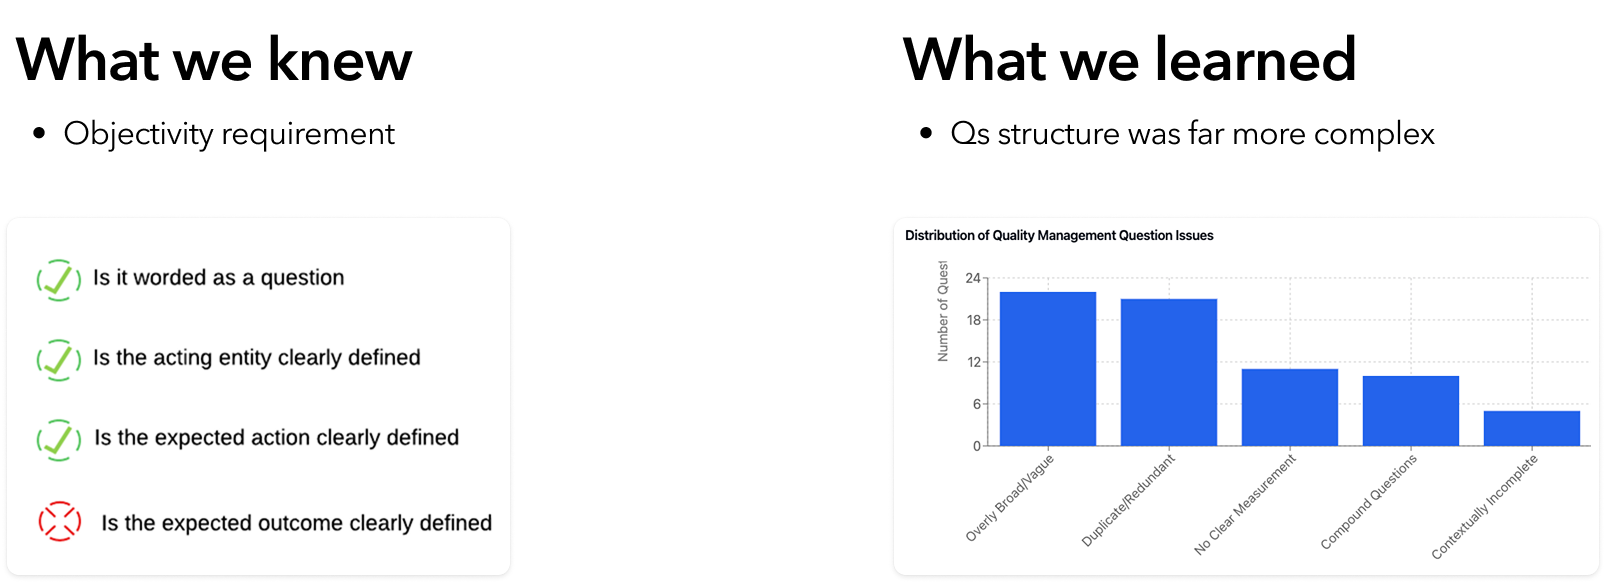
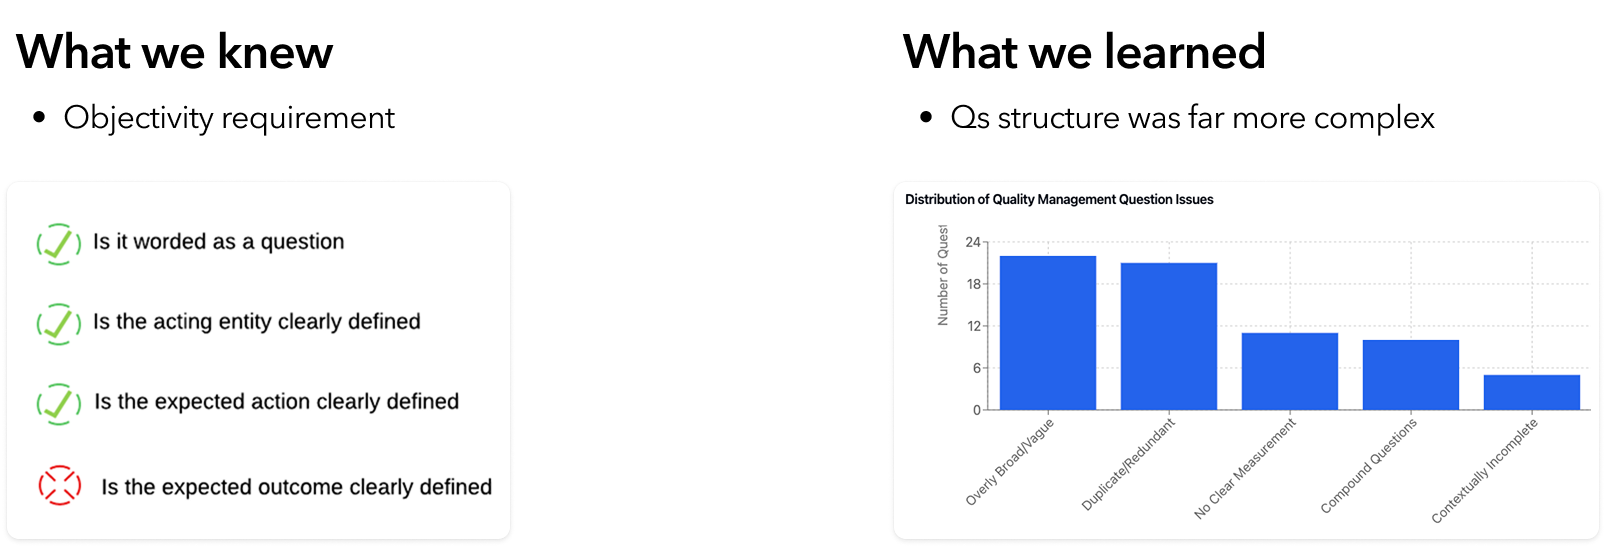
AI insights case study: approach figures, legacy image, copy
- Problem: legacy scorecard UI with caption
- Design approach: approach1 PNG and approach2 GIF with captions; singular table in copy
- Refresh discovery asset dimensions

Made-with: Cursor

diff --git a/projects/ai-scorecards.html b/projects/ai-scorecards.html
@@ -66,6 +66,10 @@
         </figure>
         <p>ACE — RingCentral's post-call analysis tool — lets managers define scorecards to evaluate agent performance. Traditionally, every unscored call flag required manual review. As call volumes scaled, this created an unsustainable bottleneck: slow, prone to bias, and impossible to maintain at pace.</p>
         <p>My goal was to transform scorecard calibration from a manual chore into an automated, high-trust workflow — and in doing so, leapfrog competitors while driving down cost per resolution.</p>
+        <figure class="cs-section-figure">
+          <img src="/assets/AIinsights-legacy.png" alt="Legacy scorecard table and modal components in ACE" width="1173" height="754" decoding="async" />
+          <figcaption>Legacy scorecard table and modal components</figcaption>
+        </figure>
       </div>
 
       <div class="section">
@@ -76,7 +80,7 @@
       <div class="section">
         <h2>Discovery and tradeoffs</h2>
         <figure class="cs-section-figure">
-          <img src="/assets/AIinsights-discovery.png" alt="Discovery findings: PRD framing vs real scorecard evaluation use cases" width="1639" height="730" decoding="async" />
+          <img src="/assets/AIinsights-discovery.png" alt="Discovery findings: PRD framing vs real scorecard evaluation use cases" width="1606" height="551" decoding="async" />
         </figure>
         <p>Working closely with Data Science, I found the PRD's initial framing — a simple pass/fail scorecard evaluation — didn't hold up against real use cases. Questions were more nuanced than expected, requiring the AI to understand the manager's underlying intent.</p>
         <p>Backend conversations surfaced two key tensions:</p>
@@ -101,8 +105,16 @@
       <div class="section">
         <h2>Design approach</h2>
         <p>I explored two directions. The first followed the PRD: a scorecard-level evaluation tagging each question as "Strong" or "Needs Work." Testing revealed a critical gap — it diagnosed problems without prescribing solutions. A pass/fail grade without a lesson plan.</p>
+        <figure class="cs-section-figure">
+          <img src="/assets/AIinsights-approach1.png" alt="First design direction: scorecard-level evaluation per PRD objectivity requirements" width="1173" height="754" decoding="async" />
+          <figcaption>The first design direction followed the PRD's objectivity requirements</figcaption>
+        </figure>
         <p>The second was more aspirational: a prompt-based approach that analyzed the manager's intent at the scorecard or question level. After alignment sessions with Product and Engineering, we landed on a hybrid — weekly, scorecard-level evaluations for the highest-traffic assets, balancing depth of analysis with low latency.</p>
-        <p>While the backend was in development, I used the time to modernize the legacy scorecard tables and modal components — ensuring the AI features would launch into a polished UI. I also ran "knowledge exchange" sessions with Data Science and Content Design to translate model outputs into an in-product guide: a library of high-performing question examples managers could copy directly into their scorecards.</p>
+        <figure class="cs-section-figure">
+          <img src="/assets/AIinsights-approach2.gif" alt="Second design direction: prompt-based question refinement" width="2000" height="1146" decoding="async" />
+          <figcaption>The second design direction allowed prompt-based question refinement</figcaption>
+        </figure>
+        <p>While the backend was in development, I used the time to modernize the legacy scorecard table and modal components — ensuring the AI features would launch into a polished UI. I also ran "knowledge exchange" sessions with Data Science and Content Design to translate model outputs into an in-product guide: a library of high-performing question examples managers could copy directly into their scorecards.</p>
         <p>When the model was ready, I defined precise interaction details — anchor scrolling between AI suggestions and text fields, and Accept/Undo/Dismiss actions treated as signals feeding a real-time feedback loop for model refinement. I also eliminated the manual weight calculation burden by implementing auto-balancing logic, removing the cognitive load of keeping scorecards totaled to 100%.</p>
       </div>
 
